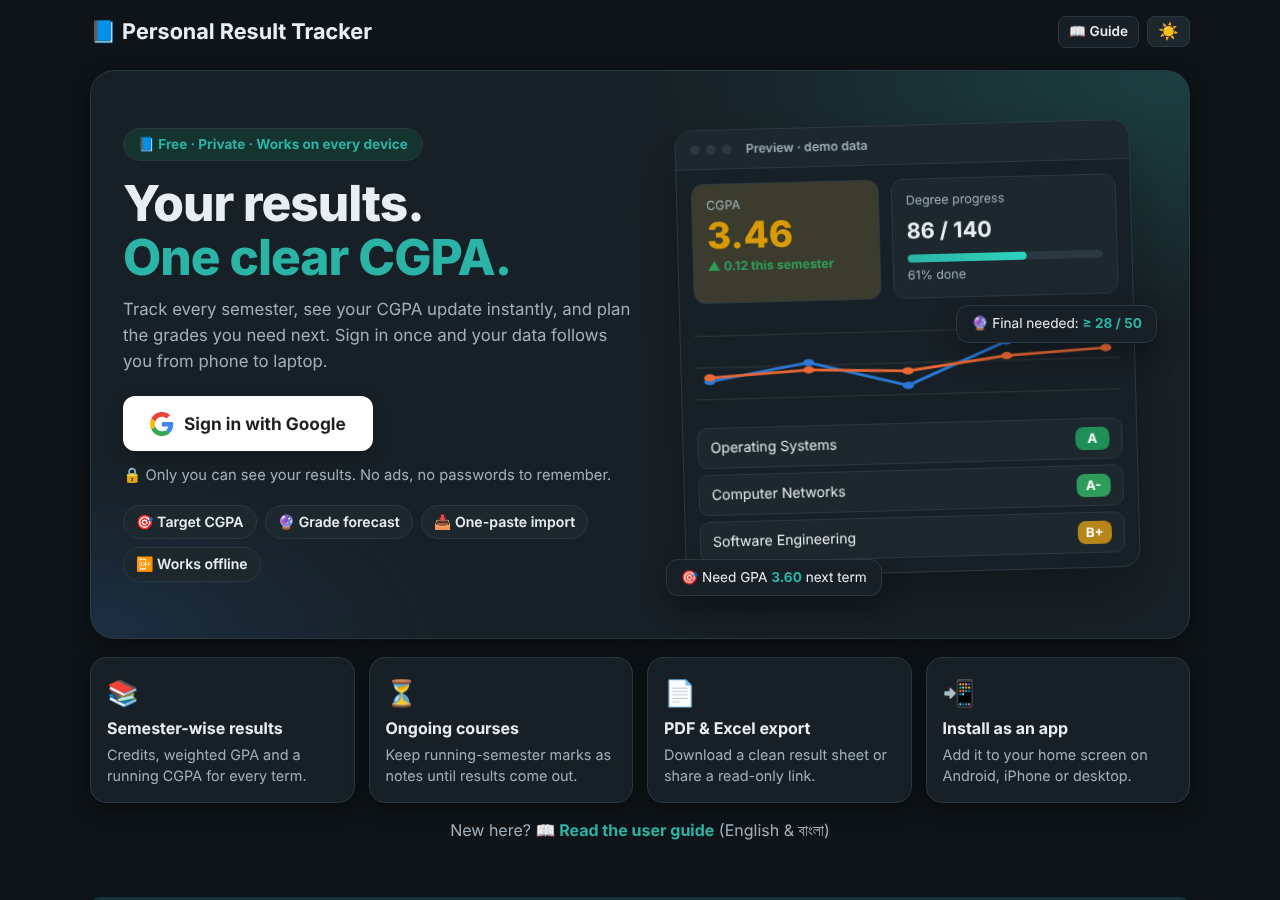
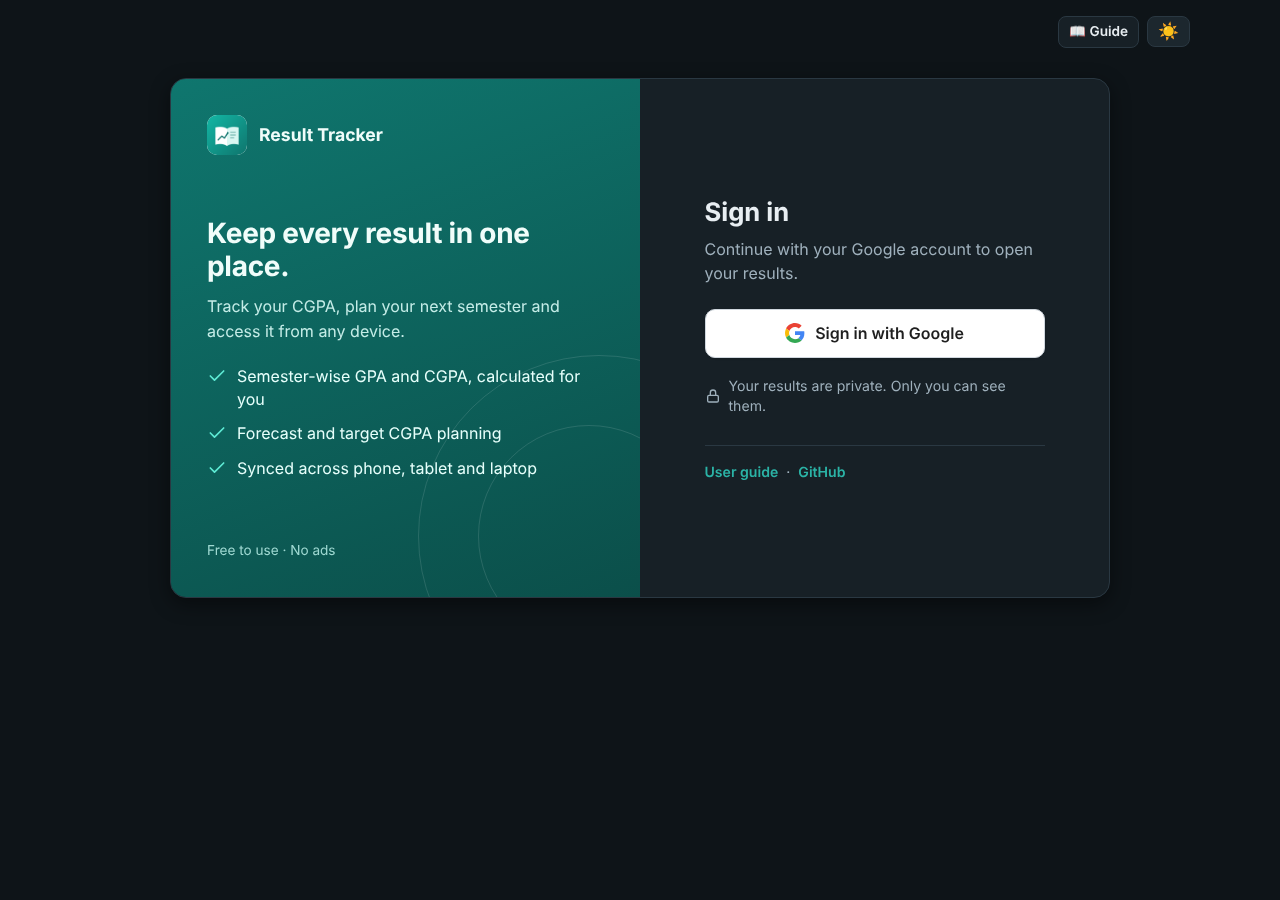
Clean professional login page

diff --git a/style.css b/style.css
@@ -600,66 +600,49 @@ button.result:hover { background: #1d4ed8; }
 a.mini.guide-link { white-space: nowrap; flex-direction: row; display: inline-flex; align-items: center; gap: 4px; padding: 5px 10px; font-size: 0.85rem; border: 1px solid var(--border); border-radius: 8px; background: var(--card); color: var(--text); text-decoration: none; font-weight: 600; }
 a.mini.guide-link:hover { border-color: var(--brand); color: var(--brand); }
 
-/* ---------- Login landing ---------- */
-.login-screen { display: block; padding: 8px 0 24px; }
+/* ---------- Login ---------- */
+.login-screen { display: block; padding: 5vh 0 8px; }
 .login-screen[hidden] { display: none; }
-.lg-hero { display: grid; grid-template-columns: 1.05fr 1fr; gap: 40px; align-items: center; padding: 36px 32px; border-radius: 24px; border: 1px solid var(--border); box-shadow: var(--shadow);
-  background: radial-gradient(900px 420px at 100% 0%, color-mix(in srgb, var(--brand) 22%, transparent), transparent 60%), radial-gradient(600px 300px at 0% 100%, color-mix(in srgb, var(--series-1) 14%, transparent), transparent 60%), var(--card); overflow: hidden; }
-.lg-eyebrow { display: inline-block; padding: 6px 14px; border-radius: 999px; background: var(--accent-soft); color: var(--brand); font-weight: 700; font-size: 0.85rem; border: 1px solid var(--border); }
-.lg-title { font-size: clamp(2rem, 5vw, 3.1rem); line-height: 1.08; margin: 16px 0 12px; letter-spacing: -0.02em; font-weight: 800; }
-.lg-title span { color: var(--brand); }
-.lg-sub { color: var(--muted); font-size: 1.05rem; max-width: 520px; margin-bottom: 22px; line-height: 1.55; }
-.google-btn.lg-btn { padding: 14px 26px; font-size: 1.08rem; font-weight: 700; border-radius: 12px; box-shadow: 0 6px 18px rgba(0, 0, 0, 0.18); border-color: transparent; }
-.google-btn.lg-btn:hover { transform: translateY(-1px); box-shadow: 0 10px 24px rgba(0, 0, 0, 0.25); }
-.google-btn.lg-btn .icon { width: 24px; height: 24px; }
-.lg-trust { margin: 14px 0 18px; color: var(--muted); font-size: 0.92rem; }
-.lg-chips { display: flex; flex-wrap: wrap; gap: 8px; }
-.lg-chips span { padding: 6px 12px; border-radius: 999px; background: var(--card-2); border: 1px solid var(--border); font-size: 0.88rem; font-weight: 600; }
+/* on the login page only the small toolbar stays; the title and the personal footer are hidden */
+body:has(#loginScreen:not([hidden])) .topbar h1,
+body:has(#loginScreen:not([hidden])) .about-me-card { display: none; }
+body:has(#loginScreen:not([hidden])) .topbar { justify-content: flex-end; }
 
-.lg-visual { position: relative; padding: 18px 22px 30px 8px; }
-.lg-mock { background: var(--card); border: 1px solid var(--border); border-radius: 18px; box-shadow: 0 24px 56px rgba(0, 0, 0, 0.28); overflow: hidden; transform: rotate(-1.5deg); }
-.lg-mock-bar { display: flex; align-items: center; gap: 6px; padding: 10px 14px; background: var(--card-2); border-bottom: 1px solid var(--border); }
-.lg-mock-bar i { width: 10px; height: 10px; border-radius: 50%; background: var(--border); }
-.lg-mock-bar b { margin-left: 8px; font-size: 0.78rem; color: var(--muted); font-weight: 600; }
-.lg-mock-top { display: grid; grid-template-columns: 1fr 1.2fr; gap: 12px; padding: 14px; }
-.lg-cgpa, .lg-prog { background: var(--card-2); border: 1px solid var(--border); border-radius: 12px; padding: 12px 14px; display: flex; flex-direction: column; gap: 2px; }
-.lg-cgpa { background: color-mix(in srgb, #fbbf24 14%, var(--card-2)); }
-.lg-cgpa small, .lg-prog small { color: var(--muted); font-size: 0.78rem; }
-.lg-cgpa strong { font-size: 2.3rem; line-height: 1.05; color: #d99a06; font-weight: 800; }
-.lg-prog strong { font-size: 1.35rem; margin-top: 4px; }
-.lg-cgpa em, .lg-prog em { font-style: normal; font-size: 0.78rem; color: var(--muted); }
-.lg-cgpa em { color: #2e9d5b; font-weight: 700; }
-.lg-bar { height: 8px; border-radius: 999px; background: var(--border); overflow: hidden; margin: 6px 0 2px; }
-.lg-bar span { display: block; width: 61%; height: 100%; background: linear-gradient(90deg, var(--brand), #2dd4bf); border-radius: 999px; }
-.lg-chart { display: block; width: calc(100% - 28px); height: 100px; margin: 0 14px; color: var(--text); }
-.lg-rows { padding: 10px 14px 14px; display: flex; flex-direction: column; gap: 6px; }
-.lg-rows > div { display: flex; justify-content: space-between; align-items: center; padding: 8px 12px; border-radius: 10px; background: var(--card-2); border: 1px solid var(--border); font-size: 0.88rem; }
-.lg-rows b { min-width: 34px; text-align: center; padding: 2px 8px; border-radius: 8px; color: #fff; font-size: 0.82rem; }
-.lg-rows .g-a { background: #1f8f55; } .lg-rows .g-am { background: #2e9d5b; } .lg-rows .g-bp { background: #b7861a; }
-.lg-float { position: absolute; padding: 8px 14px; border-radius: 12px; background: var(--card); border: 1px solid var(--border); box-shadow: 0 12px 28px rgba(0, 0, 0, 0.28); font-size: 0.85rem; white-space: nowrap; }
-.lg-float b { color: var(--brand); }
-.lg-f1 { right: 0; top: 40%; }
-.lg-f2 { left: -6px; bottom: 6px; }
+.lg-card { display: grid; grid-template-columns: 1fr 1fr; max-width: 940px; margin: 0 auto; min-height: 520px; background: var(--card); border: 1px solid var(--border); border-radius: 16px; box-shadow: var(--shadow); overflow: hidden; }
 
-.lg-feats { display: grid; grid-template-columns: repeat(4, 1fr); gap: 14px; margin-top: 18px; }
-.lg-feats > div { background: var(--card); border: 1px solid var(--border); border-radius: 16px; padding: 16px; box-shadow: var(--shadow); }
-.lg-feats span { font-size: 1.6rem; }
-.lg-feats b { display: block; margin: 6px 0 4px; }
-.lg-feats p { color: var(--muted); font-size: 0.9rem; line-height: 1.45; }
-.lg-guide { text-align: center; margin-top: 16px; color: var(--muted); }
-.lg-guide a { color: var(--brand); font-weight: 700; text-decoration: none; }
+.lg-brand { position: relative; display: flex; flex-direction: column; justify-content: space-between; gap: 32px; padding: 36px; color: #f0fdfa;
+  background: linear-gradient(160deg, #0f766e 0%, #0b4f4a 100%); overflow: hidden; }
+.lg-brand::before, .lg-brand::after { content: ""; position: absolute; border-radius: 50%; border: 1px solid rgba(255, 255, 255, 0.12); pointer-events: none; }
+.lg-brand::before { width: 360px; height: 360px; right: -140px; bottom: -120px; }
+.lg-brand::after { width: 220px; height: 220px; right: -60px; bottom: -50px; }
+.lg-logo { display: flex; align-items: center; gap: 12px; font-weight: 700; font-size: 1.1rem; position: relative; }
+.lg-logo img { border-radius: 10px; background: #fff; }
+.lg-brand-body { position: relative; }
+.lg-brand-body h2 { font-size: 1.75rem; line-height: 1.2; font-weight: 700; margin-bottom: 10px; letter-spacing: -0.01em; }
+.lg-brand-body p { color: #c4ece7; margin-bottom: 22px; line-height: 1.55; }
+.lg-brand-body ul { list-style: none; display: flex; flex-direction: column; gap: 12px; }
+.lg-brand-body li { display: flex; align-items: flex-start; gap: 10px; color: #e6fffb; line-height: 1.4; }
+.lg-brand-body li svg { flex: none; margin-top: 1px; color: #5eead4; }
+.lg-brand-foot { position: relative; font-size: 0.85rem; color: #9fd9d2; }
 
-@media (max-width: 860px) {
-  .lg-hero { grid-template-columns: 1fr; padding: 26px 18px; gap: 26px; }
-  .lg-feats { grid-template-columns: repeat(2, 1fr); }
-  .lg-visual { padding: 0 6px 30px 0; }
-  .lg-f1 { right: 0; top: 36%; }
-}
-@media (max-width: 480px) {
-  .lg-feats { grid-template-columns: 1fr; }
-  .lg-float { font-size: 0.78rem; }
-}
-@media (prefers-reduced-motion: no-preference) {
-  .lg-mock { animation: lgfloat 6s ease-in-out infinite; }
-  @keyframes lgfloat { 0%, 100% { transform: rotate(-1.5deg) translateY(0); } 50% { transform: rotate(-1.5deg) translateY(-8px); } }
+.lg-form { display: flex; align-items: center; justify-content: center; padding: 36px; }
+.lg-form-in { width: 100%; max-width: 340px; }
+.lg-form h2 { font-size: 1.6rem; margin-bottom: 6px; font-weight: 700; }
+.lg-lead { color: var(--muted); margin-bottom: 24px; line-height: 1.5; }
+.google-btn.lg-btn { width: 100%; justify-content: center; padding: 12px 16px; font-size: 1rem; font-weight: 600; border-radius: 10px; border: 1px solid #d0d7de; background: #fff; color: #1f1f1f; box-shadow: 0 1px 2px rgba(0, 0, 0, 0.08); }
+.google-btn.lg-btn:hover { background: #f6f8fa; box-shadow: 0 2px 6px rgba(0, 0, 0, 0.14); }
+.google-btn.lg-btn .icon { width: 20px; height: 20px; }
+.lg-note { display: flex; align-items: center; gap: 8px; margin-top: 18px; color: var(--muted); font-size: 0.88rem; }
+.lg-note svg { flex: none; }
+.lg-links { display: flex; gap: 8px; margin-top: 28px; padding-top: 16px; border-top: 1px solid var(--border); font-size: 0.88rem; color: var(--muted); }
+.lg-links a { color: var(--brand); text-decoration: none; font-weight: 600; }
+.lg-links a:hover { text-decoration: underline; }
+
+@media (max-width: 760px) {
+  .lg-card { grid-template-columns: 1fr; min-height: 0; }
+  .lg-brand { padding: 24px; gap: 20px; }
+  .lg-brand-body ul, .lg-brand-foot { display: none; }
+  .lg-brand-body h2 { font-size: 1.35rem; }
+  .lg-brand-body p { margin-bottom: 0; }
+  .lg-form { padding: 24px; }
 }

diff --git a/index.html b/index.html
@@ -31,7 +31,7 @@
     <header class="topbar">
       <h1>📘 Personal Result Tracker</h1>
       <div class="top-actions">
-        <a href="guide.html" class="mini guide-link" id="guideLink" title="User guide (English / বাংলা)">📖 Guide</a>
+        <a href="guide.html" class="mini guide-link" id="guideLink" title="User guide (English / বাংলা)">Guide</a>
         <button id="installBtn" class="mini install-btn" type="button" hidden>⬇ Install app</button>
         <span id="syncStatus" class="sync" hidden></span>
         <button id="themeBtn" class="icon-btn" type="button" aria-label="Switch to dark mode" title="Dark / light mode">🌙</button>
@@ -43,53 +43,34 @@
 
     <!-- Login -->
     <section id="loginScreen" class="login-screen" hidden>
-      <div class="lg-hero">
-        <div class="lg-copy">
-          <span class="lg-eyebrow">📘 Free · Private · Works on every device</span>
-          <h2 class="lg-title">Your results.<br><span>One clear CGPA.</span></h2>
-          <p class="lg-sub">Track every semester, see your CGPA update instantly, and plan the grades you need next. Sign in once and your data follows you from phone to laptop.</p>
-          <button id="loginBtn" class="google-btn lg-btn" type="button">
-            <svg class="icon" viewBox="0 0 48 48" aria-hidden="true"><path fill="#EA4335" d="M24 9.5c3.5 0 6.6 1.2 9.1 3.6l6.8-6.8C35.8 2.4 30.3 0 24 0 14.6 0 6.5 5.4 2.6 13.2l7.9 6.1C12.4 13.6 17.7 9.5 24 9.5z"/><path fill="#4285F4" d="M46.5 24.5c0-1.6-.1-3.1-.4-4.5H24v9h12.7c-.6 3-2.3 5.5-4.8 7.2l7.5 5.8c4.4-4.1 7.1-10.1 7.1-17.5z"/><path fill="#FBBC05" d="M10.5 28.7c-.5-1.4-.8-3-.8-4.7s.3-3.2.8-4.7l-7.9-6.1C.9 16.4 0 20.1 0 24s.9 7.6 2.6 10.8l7.9-6.1z"/><path fill="#34A853" d="M24 48c6.5 0 11.9-2.1 15.9-5.8l-7.5-5.8c-2.1 1.4-4.9 2.3-8.4 2.3-6.3 0-11.6-4.1-13.5-9.8l-7.9 6.1C6.5 42.6 14.6 48 24 48z"/></svg>
-            Sign in with Google
-          </button>
-          <p class="lg-trust">🔒 Only you can see your results. No ads, no passwords to remember.</p>
-          <div class="lg-chips">
-            <span>🎯 Target CGPA</span><span>🔮 Grade forecast</span><span>📥 One-paste import</span><span>📴 Works offline</span>
+      <div class="lg-card">
+        <aside class="lg-brand">
+          <div class="lg-logo"><img src="icon-192.png" alt="" width="40" height="40"><span>Result Tracker</span></div>
+          <div class="lg-brand-body">
+            <h2>Keep every result in one place.</h2>
+            <p>Track your CGPA, plan your next semester and access it from any device.</p>
+            <ul>
+              <li><svg viewBox="0 0 24 24" width="20" height="20" fill="none" stroke="currentColor" stroke-width="2" stroke-linecap="round" stroke-linejoin="round" aria-hidden="true"><path d="M20 6 9 17l-5-5"/></svg><span>Semester-wise GPA and CGPA, calculated for you</span></li>
+              <li><svg viewBox="0 0 24 24" width="20" height="20" fill="none" stroke="currentColor" stroke-width="2" stroke-linecap="round" stroke-linejoin="round" aria-hidden="true"><path d="M20 6 9 17l-5-5"/></svg><span>Forecast and target CGPA planning</span></li>
+              <li><svg viewBox="0 0 24 24" width="20" height="20" fill="none" stroke="currentColor" stroke-width="2" stroke-linecap="round" stroke-linejoin="round" aria-hidden="true"><path d="M20 6 9 17l-5-5"/></svg><span>Synced across phone, tablet and laptop</span></li>
+            </ul>
+          </div>
+          <p class="lg-brand-foot">Free to use · No ads</p>
+        </aside>
+
+        <div class="lg-form">
+          <div class="lg-form-in">
+            <h2>Sign in</h2>
+            <p class="lg-lead">Continue with your Google account to open your results.</p>
+            <button id="loginBtn" class="google-btn lg-btn" type="button">
+              <svg class="icon" viewBox="0 0 48 48" aria-hidden="true"><path fill="#EA4335" d="M24 9.5c3.5 0 6.6 1.2 9.1 3.6l6.8-6.8C35.8 2.4 30.3 0 24 0 14.6 0 6.5 5.4 2.6 13.2l7.9 6.1C12.4 13.6 17.7 9.5 24 9.5z"/><path fill="#4285F4" d="M46.5 24.5c0-1.6-.1-3.1-.4-4.5H24v9h12.7c-.6 3-2.3 5.5-4.8 7.2l7.5 5.8c4.4-4.1 7.1-10.1 7.1-17.5z"/><path fill="#FBBC05" d="M10.5 28.7c-.5-1.4-.8-3-.8-4.7s.3-3.2.8-4.7l-7.9-6.1C.9 16.4 0 20.1 0 24s.9 7.6 2.6 10.8l7.9-6.1z"/><path fill="#34A853" d="M24 48c6.5 0 11.9-2.1 15.9-5.8l-7.5-5.8c-2.1 1.4-4.9 2.3-8.4 2.3-6.3 0-11.6-4.1-13.5-9.8l-7.9 6.1C6.5 42.6 14.6 48 24 48z"/></svg>
+              <span>Sign in with Google</span>
+            </button>
+            <p class="lg-note"><svg viewBox="0 0 24 24" width="16" height="16" fill="none" stroke="currentColor" stroke-width="2" stroke-linecap="round" stroke-linejoin="round" aria-hidden="true"><rect x="4" y="11" width="16" height="10" rx="2"/><path d="M8 11V7a4 4 0 0 1 8 0v4"/></svg><span>Your results are private. Only you can see them.</span></p>
+            <div class="lg-links"><a href="guide.html">User guide</a><span>·</span><a href="https://github.com/abdurrahmancce/personal-result-tracker" target="_blank" rel="noopener">GitHub</a></div>
           </div>
         </div>
-
-        <div class="lg-visual" aria-hidden="true">
-          <div class="lg-mock">
-            <div class="lg-mock-bar"><i></i><i></i><i></i><b>Preview · demo data</b></div>
-            <div class="lg-mock-top">
-              <div class="lg-cgpa"><small>CGPA</small><strong>3.46</strong><em>▲ 0.12 this semester</em></div>
-              <div class="lg-prog"><small>Degree progress</small><strong>86 / 140</strong><div class="lg-bar"><span></span></div><em>61% done</em></div>
-            </div>
-            <svg class="lg-chart" viewBox="0 0 300 110" preserveAspectRatio="none">
-              <g stroke="currentColor" stroke-opacity=".12"><path d="M0 20H300M0 55H300M0 90H300"/></g>
-              <path d="M10 70 L80 52 L150 80 L220 34 L290 28" fill="none" stroke="#2a78d6" stroke-width="3" stroke-linecap="round" stroke-linejoin="round"/>
-              <path d="M10 66 L80 60 L150 64 L220 50 L290 44" fill="none" stroke="#eb6834" stroke-width="3" stroke-linecap="round" stroke-linejoin="round"/>
-              <g fill="#2a78d6"><circle cx="10" cy="70" r="4"/><circle cx="80" cy="52" r="4"/><circle cx="150" cy="80" r="4"/><circle cx="220" cy="34" r="4"/><circle cx="290" cy="28" r="4"/></g>
-              <g fill="#eb6834"><circle cx="10" cy="66" r="4"/><circle cx="80" cy="60" r="4"/><circle cx="150" cy="64" r="4"/><circle cx="220" cy="50" r="4"/><circle cx="290" cy="44" r="4"/></g>
-            </svg>
-            <div class="lg-rows">
-              <div><span>Operating Systems</span><b class="g-a">A</b></div>
-              <div><span>Computer Networks</span><b class="g-am">A-</b></div>
-              <div><span>Software Engineering</span><b class="g-bp">B+</b></div>
-            </div>
-          </div>
-          <div class="lg-float lg-f1">🔮 Final needed: <b>≥ 28 / 50</b></div>
-          <div class="lg-float lg-f2">🎯 Need GPA <b>3.60</b> next term</div>
-        </div>
       </div>
-
-      <div class="lg-feats">
-        <div><span>📚</span><b>Semester-wise results</b><p>Credits, weighted GPA and a running CGPA for every term.</p></div>
-        <div><span>⏳</span><b>Ongoing courses</b><p>Keep running-semester marks as notes until results come out.</p></div>
-        <div><span>📄</span><b>PDF &amp; Excel export</b><p>Download a clean result sheet or share a read-only link.</p></div>
-        <div><span>📲</span><b>Install as an app</b><p>Add it to your home screen on Android, iPhone or desktop.</p></div>
-      </div>
-      <p class="lg-guide">New here? <a href="guide.html">📖 Read the user guide</a> (English &amp; বাংলা)</p>
     </section>
 
     <!-- Shared (read-only) view banner -->

diff --git a/sw.js b/sw.js
@@ -1,7 +1,7 @@
 // sw.js — lets the app open without internet.
 // Strategy: network first (so updates show up right away), fall back to the saved copy when offline.
 // Firestore's own data cache handles the results; this only saves the app files and libraries.
-const CACHE = "result-tracker-v5";
+const CACHE = "result-tracker-v6";
 const CORE = [
   "./", "index.html", "guide.html", "style.css", "script.js", "calc.js", "parser.js", "chart.js", "exporter.js", "firebase-config.js",
   "manifest.webmanifest", "icon-192.png", "icon-512.png", "icon-maskable-512.png", "apple-touch-icon.png",
